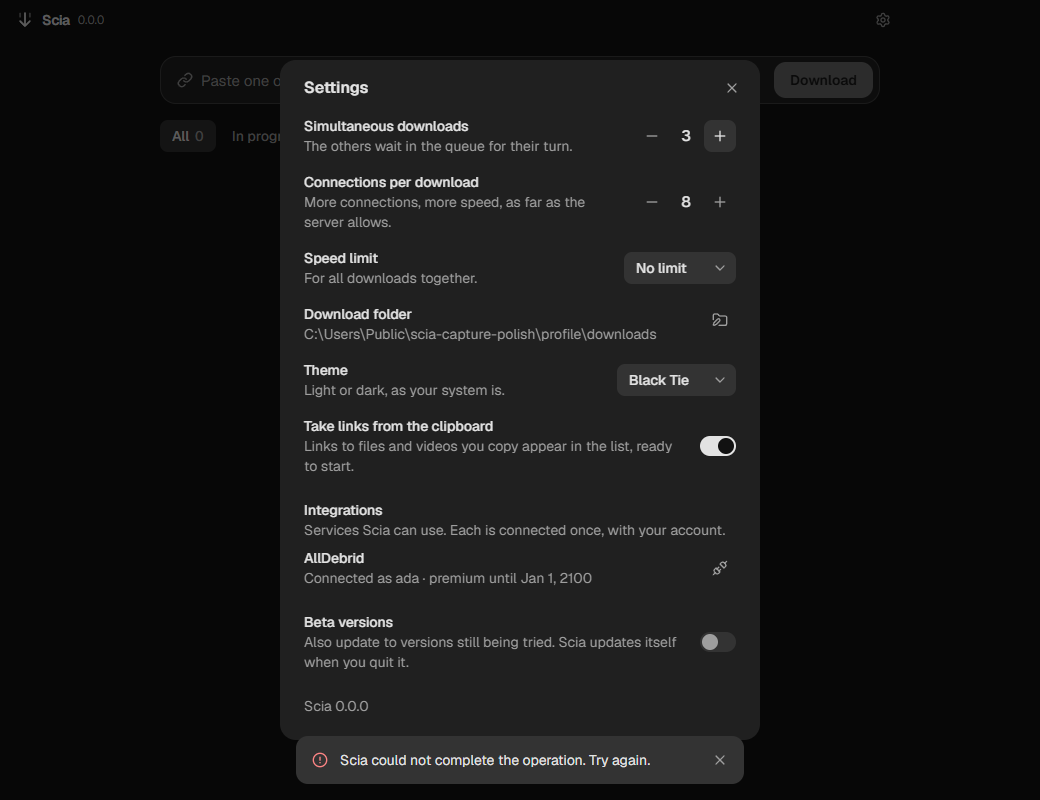
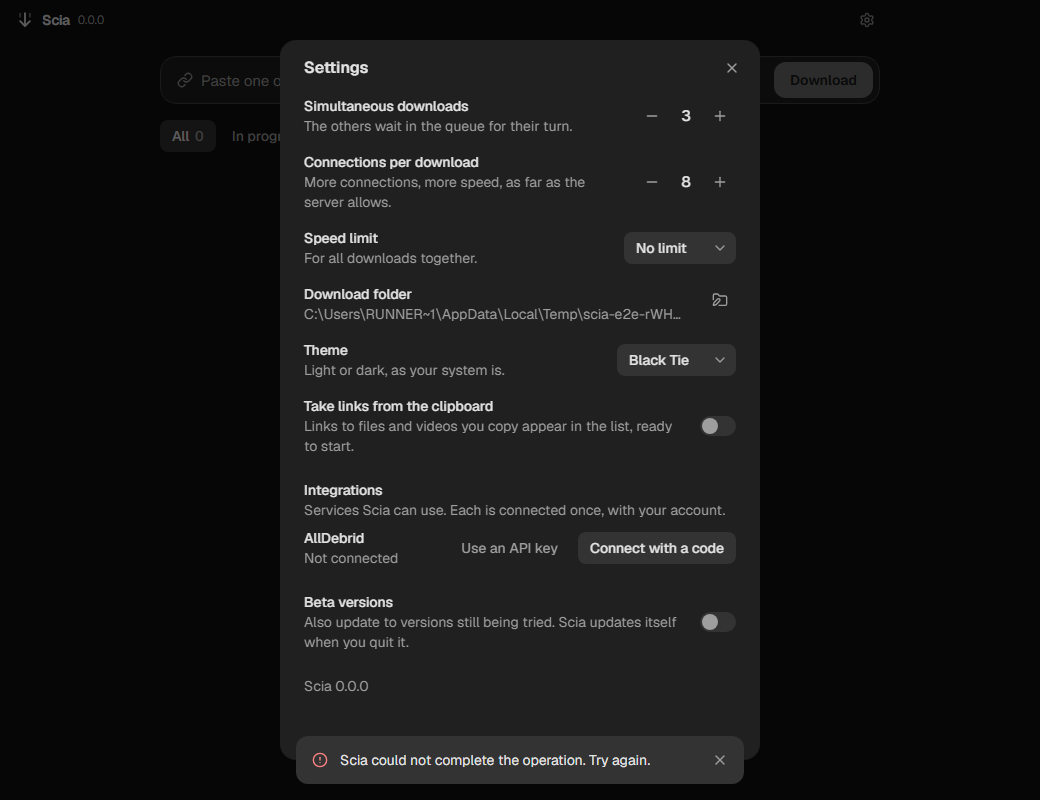
docs(design): retake the captures of a notice over settings, and one at 720
The three captures #143 asks for, taken by CI's E2E job from the built app (run 45162343099)
and read before they were committed: Settings scrolled to its end, its last setting above the
notice, at 800 px dark and light and at the window's default 720 px.

Refs #143

diff --git a/docs/design/README.md b/docs/design/README.md
@@ -45,14 +45,17 @@ The app wears one of nine themes, each in a light and a dark variant that follow
 | [`window/<theme>-<variant>.png`](./window/)                                      | The whole window, read from the system (`PrintWindow`), with its own buttons at the top right, in Black Tie and in Ice, dark and light: twelve finished downloads, so the list scrolls and shows its scrollbar (#154, #155)                                                                                                                       |
 | [`a-notice.png`](./a-notice.png)                                                 | A notice at the bottom of the window, dark variant: "Open" was pressed on a file deleted since, and the notice says so, with × to dismiss it. It goes by itself after six seconds, unless the pointer or the focus is in it                                                                                                                       |
 | [`a-notice-light.png`](./a-notice-light.png)                                     | The same, light variant                                                                                                                                                                                                                                                                                                                           |
-| [`a-notice-over-settings.png`](./a-notice-over-settings.png)                     | A notice over the Settings dialog, dark variant, 800 px high: a change the engine failed to keep (the capture made the engine's answer fail). Taken before #143, with the dialog at its top: the notice lies over its last setting, "Beta versions", cut, its switch hidden — the room Settings now keeps under its end is not in it              |
+| [`a-notice-over-settings.png`](./a-notice-over-settings.png)                     | A notice over the Settings dialog, dark variant, 1040 by 800: a change the engine failed to keep (the capture made the engine's answer fail), Settings scrolled to its end. The notice lies over the room Settings keeps under its end where the notices would cover it, and "Beta versions" and the version are above it (#143)                  |
 | [`a-notice-over-settings-light.png`](./a-notice-over-settings-light.png)         | The same, light variant                                                                                                                                                                                                                                                                                                                           |
+| [`a-notice-over-settings-720.png`](./a-notice-over-settings-720.png)             | The same at the window's default height of 720 px, dark variant: Settings, which would end under the notice, scrolls, and scrolled to its end its last setting is above the notice                                                                                                                                                                |
 | [`engine-unreachable.png`](./engine-unreachable.png)                             | The engine not answering, dark variant: the list as it was last heard, and the notice that stays, with no × and no time, until the engine is back (the capture ended the engine, which main started again)                                                                                                                                        |
 | [`engine-unreachable-light.png`](./engine-unreachable-light.png)                 | The same, light variant                                                                                                                                                                                                                                                                                                                           |
 
 The two captures of the whole dialog were taken from the built app, started by Electron on a scratch profile as the E2E suite starts it, which offers "Beta versions" as a Windows install does, and never updates itself. The folder in the captures of Settings belongs to that scratch profile, deleted after the capture. The AllDebrid account in them is the simulated service's (`apps/server/src/testing/alldebrid-server.ts`): no such account exists, and the key typed for these captures was made up. So is the code of the two captures of a code: the simulated service gave it, and AllDebrid knows nothing of it. The magnet of the four captures of a magnet is made up too: no torrent has its hash, and its files, in the two taken while AllDebrid fetched it, were local test files. So are the magnets of the four captures of the panel, which the simulated service listed as added on its site, and the links beside them, served by local test hosts and the simulated service.
 
 The light variant of a capture is the page told that the system asks for light (the protocol's emulated `prefers-color-scheme`), on a system that was dark: the page's colours are the light variant's, and the window's own buttons, which are not in a capture, were not seen in it. The captures retaken in #155 — the eight of Settings and [`window/`](./window/) — set Electron's own variant instead (`nativeTheme.themeSource`), which moves the page and main's colours together as a light system would; the system itself was dark, and a Windows set to light has not been seen (#58).
+
+The three captures of a notice over Settings were taken by CI's E2E job (`apps/desktop/e2e/notices.e2e.test.ts`, "takes the captures of a notice over Settings"), from the built app on a scratch profile of the runner, the page given its size over the protocol; they were read before they were committed. The folder they show is the runner's, deleted after the run, and the version beside the name is that of a build that is not a release, `0.0.0`.
 
 From #133 the title bar names the version beside "Scia" (or offers an update there); the captures above taken before it show the title bar without it, and are retaken in #156.
 
